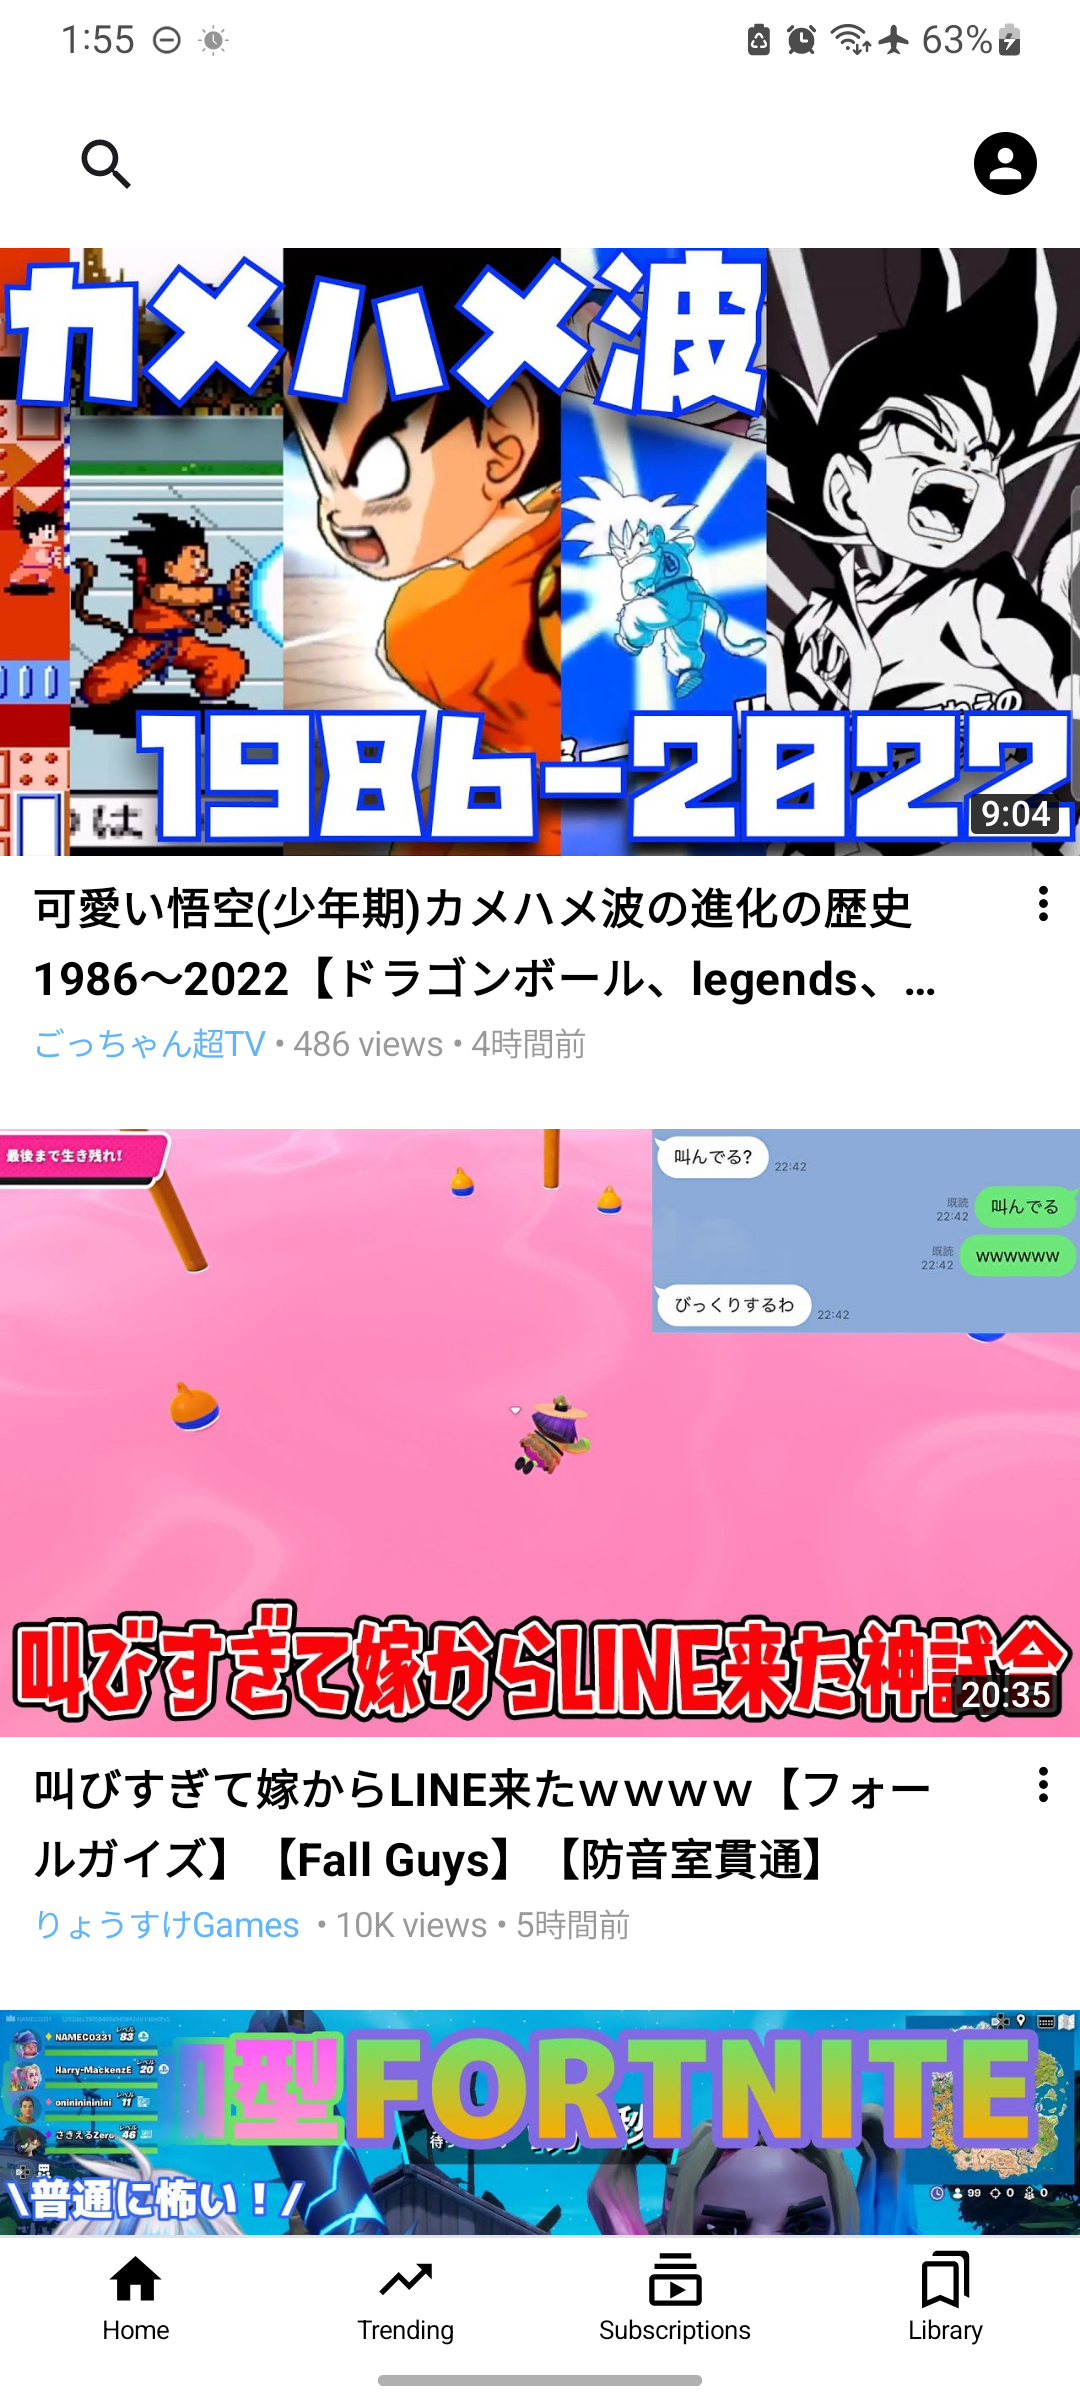
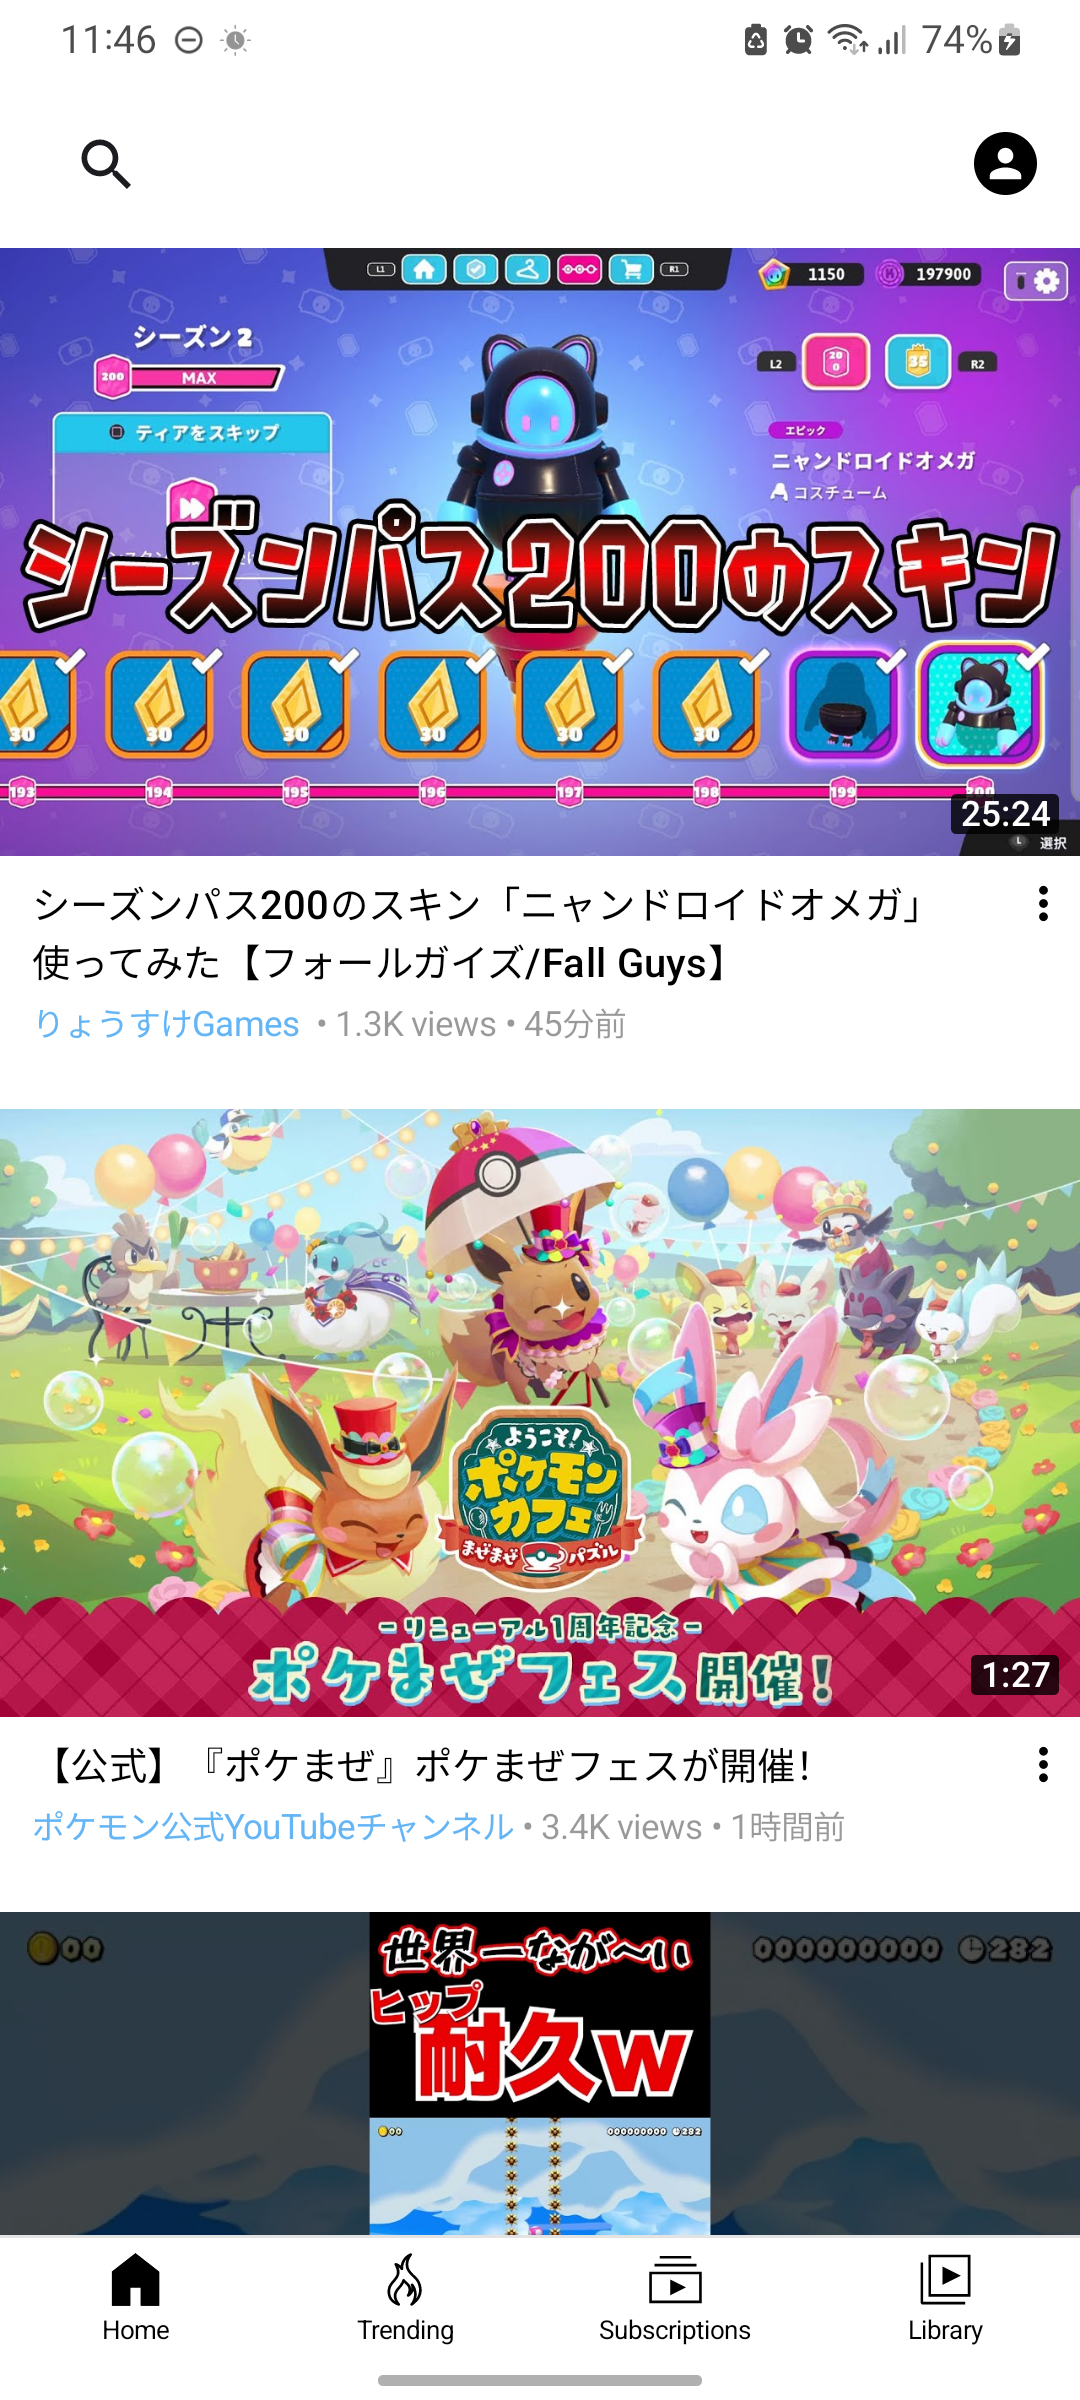
Update README screenshots

diff --git a/modules/panel/common/src/main/java/com/github/whyrising/vancetube/modules/panel/common/subs.kt b/modules/panel/common/src/main/java/com/github/whyrising/vancetube/modules/panel/common/subs.kt
@@ -15,7 +15,7 @@ fun formatVideos(
       id = video.videoId,
       authorId = video.authorId,
       title = video.title,
-      thumbnail = video.videoThumbnails[4].url,
+      thumbnail = video.videoThumbnails[1].url,
       length = formatSeconds(video.lengthSeconds),
       info = formatVideoInfo(
         author = video.author,
